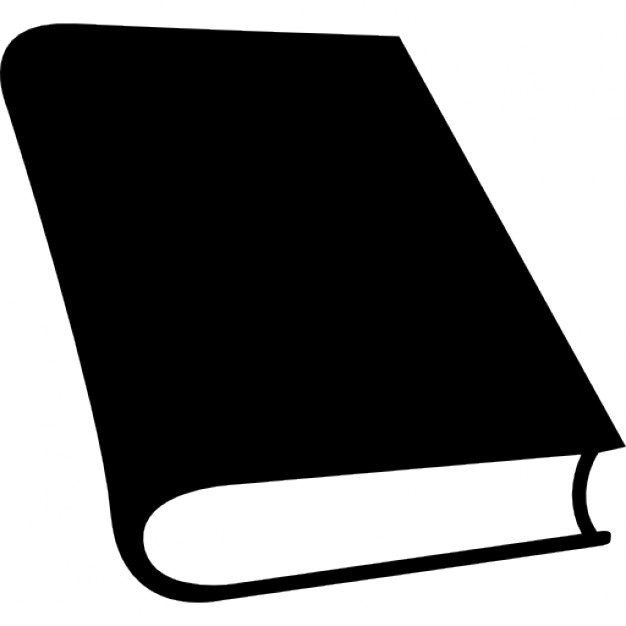
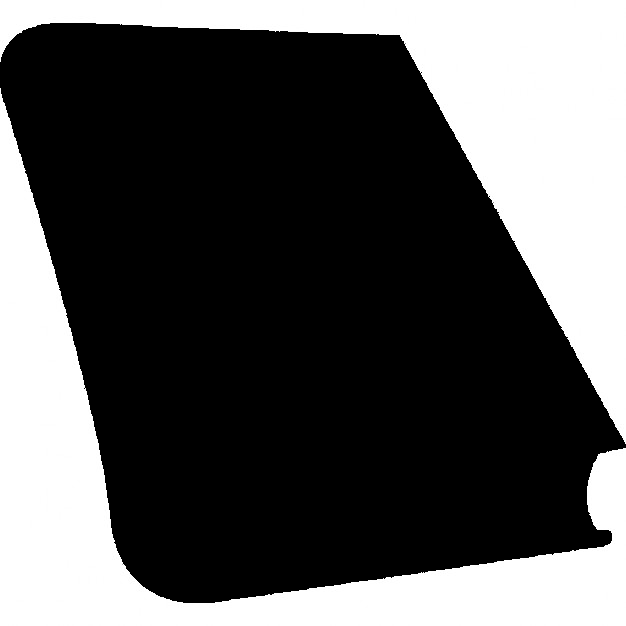
send books_mask

diff --git a/tweets_books_wordcloud.py b/tweets_books_wordcloud.py
@@ -51,7 +51,7 @@ for i in range(0, len(filenames)):
 	if i%500==0: print( "Viendo libro {0} de {1}".format(i, len(filenames)) )
 
 stop_words=set( list(STOPWORDS) )
-book_mask = np.array( Image.open("book_mask2.png") )
+book_mask = np.array( Image.open("book_mask.png") )
 
 print("Generando wordcloud")
 wordcloud = WordCloud(background_color="white", max_font_size=50, stopwords=stop_words, max_words=500, mask=book_mask).generate(text)
